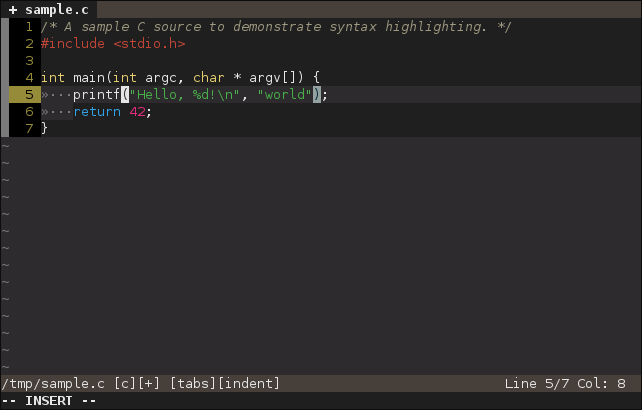
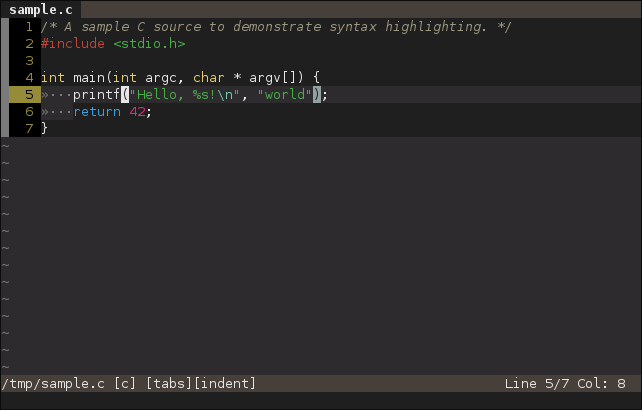
Update screenshots; add tool to take them

diff --git a/docs/make_screenshots.py b/docs/make_screenshots.py
@@ -1,0 +1,61 @@
+#!/usr/bin/env python3
+"""
+Tool for automatically generating all of the theme screenshots.
+You need gnome-screenshot, xdotool, and xfce4-terminal to use this.
+"""
+import subprocess
+import time
+
+sample_c = """/* A sample C source to demonstrate syntax highlighting. */
+#include <stdio.h>
+
+int main(int argc, char * argv[]) {
+	printf("Hello, %s!\\n", "world");
+	return 42;
+}
+"""
+
+with open("/tmp/sample.c","w") as f:
+	f.write(sample_c)
+
+# Create the terminal
+terminal = subprocess.Popen(['xfce4-terminal','--disable-server','-e','bim /tmp/sample.c'])
+
+time.sleep(0.5)
+
+# Find the terminal
+wids = subprocess.check_output(['xdotool','search','--pid',str(terminal.pid).encode()]).decode().split('\n')
+wid = wids[1]
+
+# Set up the cursor
+subprocess.run(['xdotool','windowfocus',wid,'type',":5\n"])
+subprocess.run(['xdotool','key','KP_Enter','Right','Right','Right','Right','Right','Right','Right'])
+
+# See what themes are supported.
+themes = subprocess.check_output(['bim','--version'],stderr=subprocess.STDOUT).decode().split('\n')[2].replace(' Available color themes: ','').split(' ')
+
+for theme in themes:
+	# Set the theme to this them
+	subprocess.run(['xdotool','type',':theme {}'.format(theme)])
+	subprocess.run(['xdotool','key','KP_Enter'])
+	time.sleep(0.5)
+	subprocess.run(['gnome-screenshot','-w','-f','theme_{}.png'.format(theme) if theme != 'sunsmoke' else 'screenshot.png'])
+
+# Take the cat screenshot
+subprocess.run(['xdotool','type',':!bash'])
+subprocess.run(['xdotool','key','KP_Enter'])
+subprocess.run(['xdotool','type','clear; cd /tmp'])
+subprocess.run(['xdotool','key','KP_Enter'])
+time.sleep(0.5)
+subprocess.run(['xdotool','type','bim -C sample.c'])
+subprocess.run(['xdotool','key','KP_Enter'])
+time.sleep(0.5)
+subprocess.run(['xdotool','type','bim -c sample.c'])
+subprocess.run(['xdotool','key','KP_Enter'])
+time.sleep(0.5)
+subprocess.run(['gnome-screenshot','-w','-f','screenshot_cat.png'])
+subprocess.run(['xdotool','type','exit'])
+subprocess.run(['xdotool','key','KP_Enter'])
+subprocess.run(['xdotool','key','KP_Enter'])
+subprocess.run(['xdotool','type',':q!'])
+subprocess.run(['xdotool','key','KP_Enter'])
